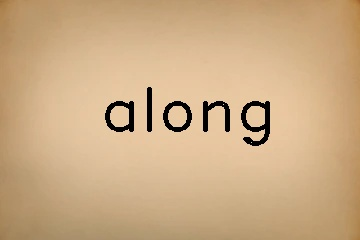
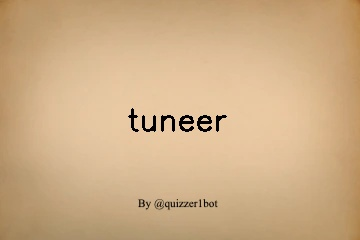
added image formatter

Changed region(s): [[0.275, 0.35, 0.6417, 0.5542], [0.6722, 0.4083, 0.7639, 0.6125], [0.3667, 0.8167, 0.6111, 0.875]]

diff --git a/api/webhooks.py b/api/webhooks.py
@@ -57,7 +57,12 @@ def sendMsg():
         # groupId = str(groupId)
         redisGrpId = "group:" + groupId
         redisWordGrpCount = word + ":" + groupId
-        updater.bot.send_photo(groupId, open(imageToSendPath, "rb"))
+        try:
+            updater.bot.send_photo(groupId, open(
+                imageToSendPath, "rb"), caption=imageCaption)
+        except Exception as e:
+            print(e)
+            continue
         redisClient.set(redisGrpId, word)
         redisClient.expire(redisGrpId, 216000)
         redisClient.hmset(redisWordGrpCount, {
@@ -109,6 +114,10 @@ def handleReceivedMessage(message: dict):
     whenMsgWasReceived = int(message["date"])
     messageReceived = message.get("text", None)
 
+    if messageReceived == None:
+        return
+
+    messageReceived = messageReceived.lower()
     if word != None and (messageReceived is not None and messageReceived == word):
         redisWordGrpId = word + ":" + groupId
         wordDataObj = redisClient.hgetall(redisWordGrpId)
@@ -134,6 +143,8 @@ def setScoreOfUser(message: dict, timeDiff: int):
     redisClient.hmset(
         redisKey, {"userName": message["from"]["username"]})
 
+    score = 1
+
     if(timeDiff < 100):
         score = 10
         redisClient.hincrby(redisKey, "score", score)
@@ -146,7 +157,22 @@ def setScoreOfUser(message: dict, timeDiff: int):
         score = 1
         redisClient.hincrby(redisKey, "score", score)
 
-    getUserScoreFromRedis(message)
+    sendSuccessMsg(message, timeDiff)
+
+
+def sendSuccessMsg(message: dict, timeDiff: int = 0):
+    userId = str(message["from"]["id"])
+    redisKey = "user:" + userId + \
+        ":" + str(message["chat"]["id"])
+
+    score = redisClient.hgetall(redisKey)
+
+    if not score:
+        updater.bot.send_message(
+            message["chat"]["id"], "No Score found @" + message["chat"]["username"])
+    elif score != None:
+        updater.bot.send_message(
+            message["chat"]["id"], successMessage.format(name=score["userName"], score=score["score"], time=minsToAns(timeDiff)))
 
 
 def getUserScoreFromRedis(message: dict):
@@ -155,9 +181,13 @@ def getUserScoreFromRedis(message: dict):
         ":" + str(message["chat"]["id"])
 
     score = redisClient.hgetall(redisKey)
-    if score != None:
+
+    if not score:
         updater.bot.send_message(
-            message["chat"]["id"], scoreIs.format(name=score["userName"], score=score["score"]))
+            message["chat"]["id"], "No Score found @" + message["chat"]["username"])
+    elif score != None:
+        updater.bot.send_message(
+            message["chat"]["id"], scoreIs.format(name=score["username"], score=score["score"]))
 
 
 def handleHelp(message: dict) -> None:
@@ -185,7 +215,7 @@ def getLeaderboardFromRedis(message: dict) -> None:
     leaderboardMsg = "🏆 Leaderboard 🏆 \n\n"
 
     for i in range(0, len(sortedUserScore)):
-        leaderboardMsg += "@{userName} - {score} \n".format(
+        leaderboardMsg += str(i + 1) + ": @{userName} your score is: {score} \n".format(
             userName=sortedUserScore[i][0], score=sortedUserScore[i][1])
 
     if sortedUserScore == []:

diff --git a/api/helpers.py b/api/helpers.py
@@ -1,7 +1,9 @@
 from random import randint
-
+from datetime import datetime
 import cv2
 import requests
+
+
 from config.environment import *
 
 
@@ -11,11 +13,11 @@ def getWord():
     words = file.read().splitlines()
     randomIndex = randint(0, len(words))
 
-    while len(words[randomIndex]) >= 6 or len(words[randomIndex]) <= 2:
+    while len(words[randomIndex]) >= 7 or len(words[randomIndex]) <= 3:
         randomIndex = randint(0, len(words))
 
     print(words[randomIndex])
-    return words[randomIndex]
+    return words[randomIndex].lower()
 
 
 def generateWords():
@@ -30,8 +32,18 @@ def generateWords():
 def generateImage(word):
 
     img = cv2.imread(imgPath)
-    cv2.putText(img, word, (100, 130),
-                cv2.FONT_HERSHEY_DUPLEX, 2, (0, 0, 0), 2)
+    if len(word) == 4:
+        cv2.putText(img, word, (140, 130),
+                    cv2.FORMATTER_FMT_PYTHON, 1, (0, 0, 0), 2)
+
+    if len(word) == 5:
+        cv2.putText(img, word, (133, 130),
+                    cv2.FORMATTER_FMT_CSV, 1, (0, 0, 0), 2)
+
+    if len(word) == 6:
+        cv2.putText(img, word, (127, 130),
+                    cv2.FONT_HERSHEY_SIMPLEX, 1, (0, 0, 0), 2)
+
     cv2.imwrite(imageToSendPath, img)
 
 
@@ -51,3 +63,12 @@ def isLeftChatMember(message: dict) -> bool:
         return False
     else:
         return True
+
+
+def minsToAns(seconds: int) -> str:
+    seconds = seconds % (24 * 3600)
+    seconds %= 3600
+    minutes = seconds // 60
+    seconds %= 60
+
+    return "%02dm %02ds" % (minutes, seconds)

diff --git a/config/constants.py b/config/constants.py
@@ -1,1 +1,5 @@
-scoreIs = "@{name} your score is: {score}"
+successMessage = "🏆 @{name}, you guessed the word! \n\n💰 You have won {score} points. \n\n⏱ Time used: {time}"
+
+imageCaption = "New Word Alert! Write the word as fast as you can ⚡"
+
+scoreIs = "@{name}, your score is {score}."

diff --git a/main.py b/main.py
@@ -7,8 +7,6 @@ load_dotenv()
 app = Flask(__name__)
 
 
-# TODO: Handle message reply on bot, and when a message is received. send a acknowlegdement to the user.
-
 @app.route("/health")
 def hello_world():
     return "Healthy."
